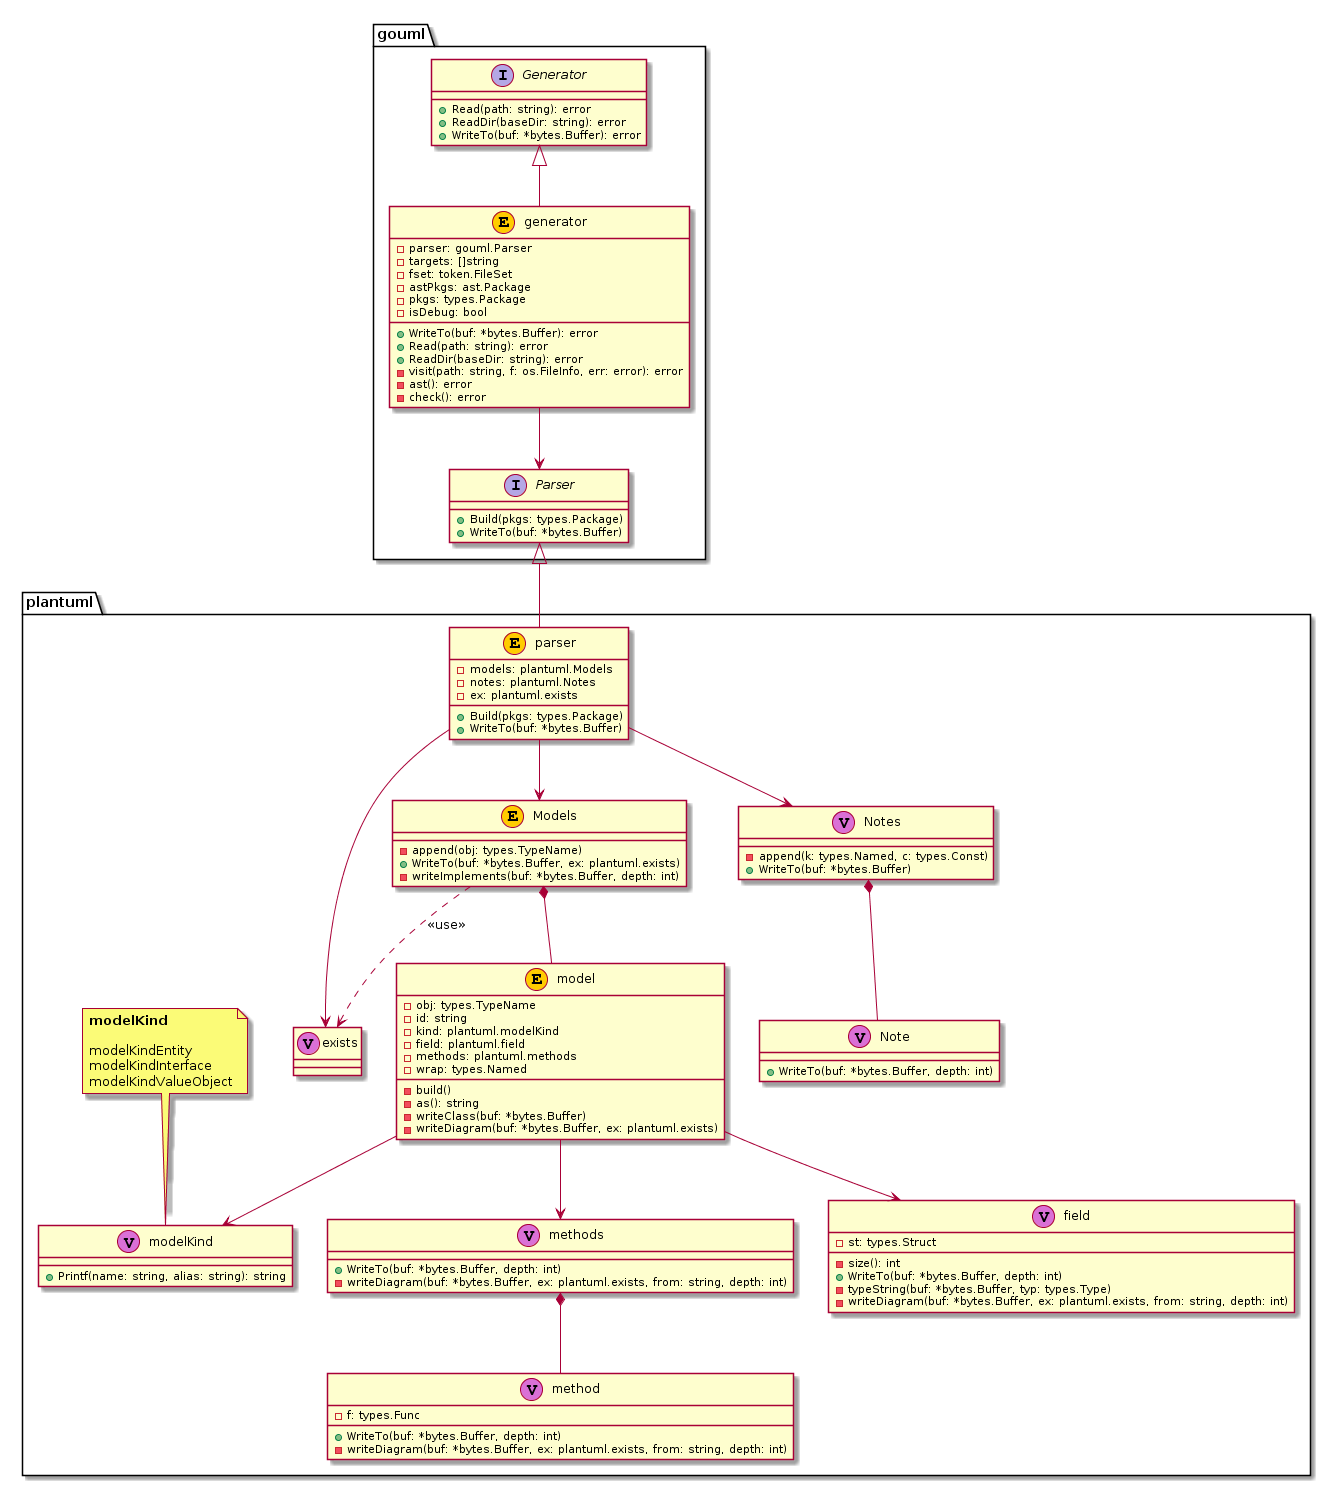
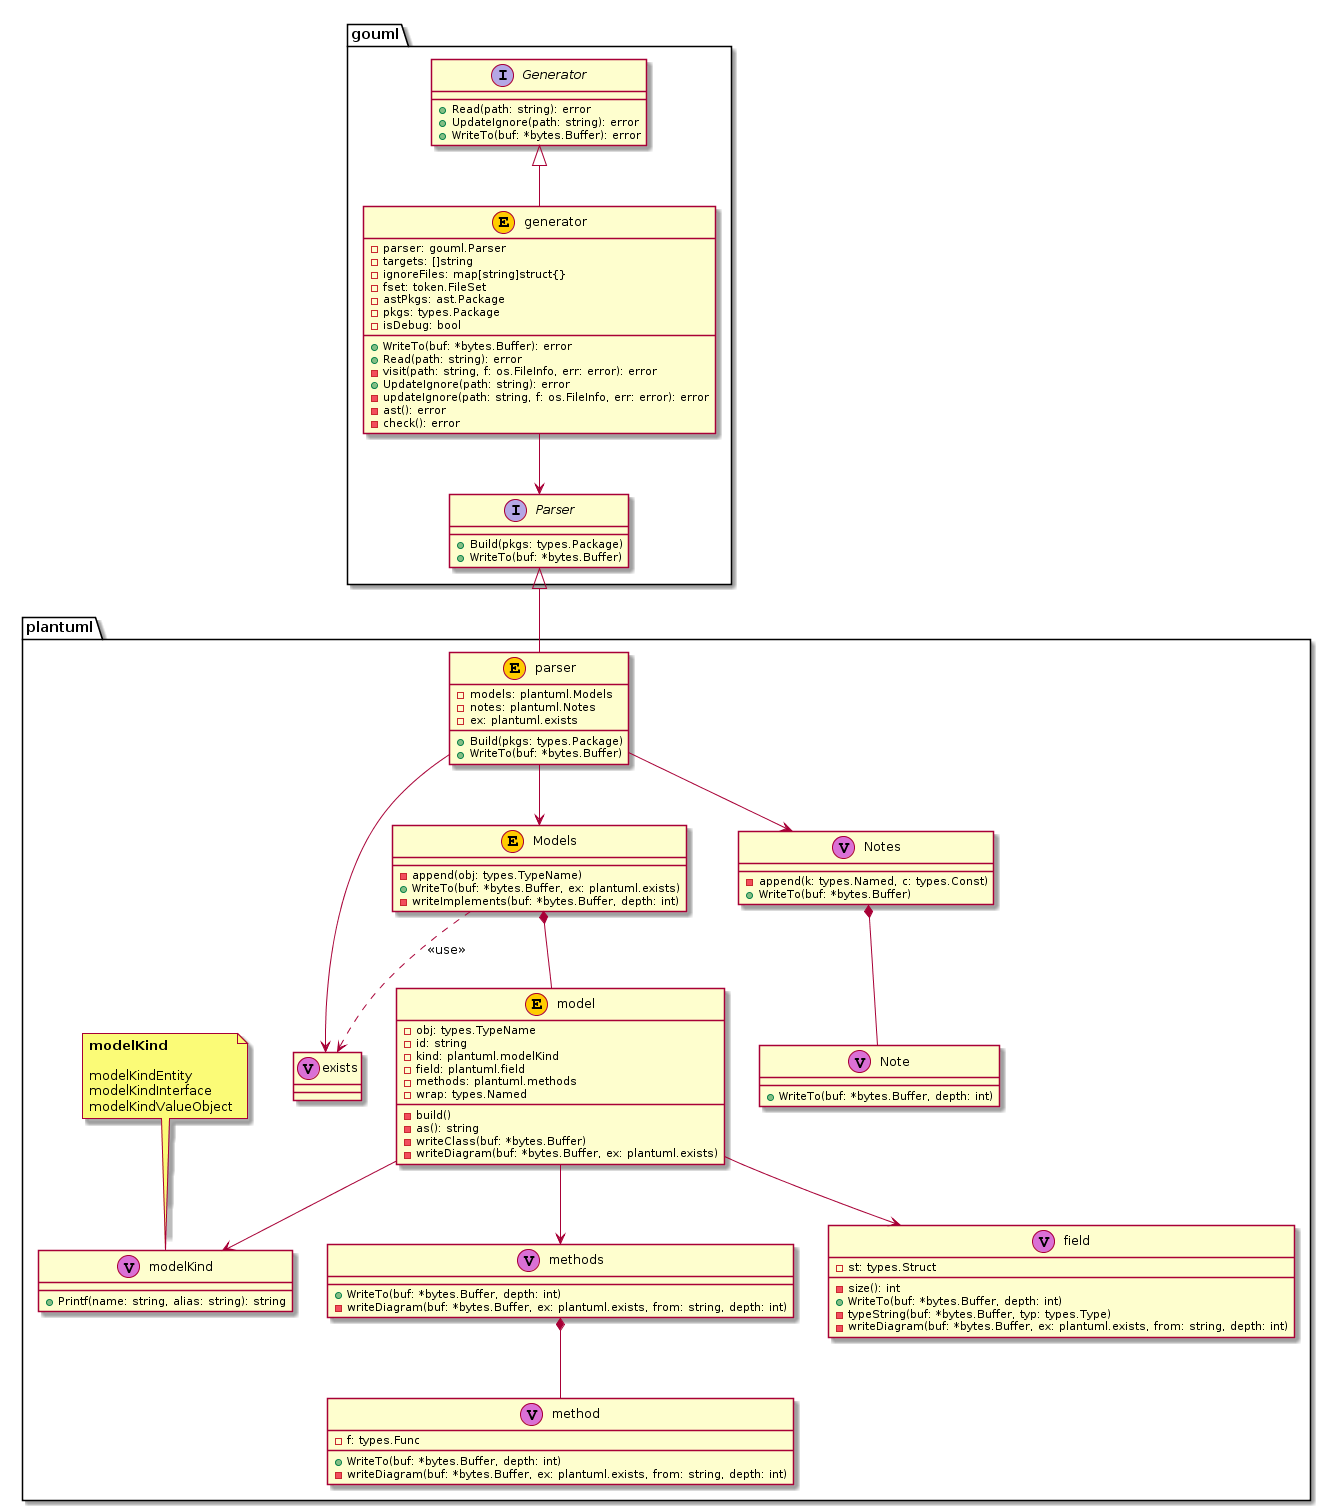
deplicated `--dir` flag. use `-f` flag instead of it.
implements #42 ignore a target directory or file

diff --git a/gen.go b/gen.go
@@ -17,29 +17,31 @@ import (
 
 // Generator ...
 type Generator interface {
+	UpdateIgnore(path string) error
 	Read(path string) error
-	ReadDir(baseDir string) error
 	WriteTo(buf *bytes.Buffer) error
 }
 
 type generator struct {
-	parser  Parser
-	targets []string
-	fset    *token.FileSet
-	astPkgs map[string]*ast.Package
-	pkgs    []*types.Package
-	isDebug bool
+	parser      Parser
+	targets     []string
+	ignoreFiles map[string]struct{}
+	fset        *token.FileSet
+	astPkgs     map[string]*ast.Package
+	pkgs        []*types.Package
+	isDebug     bool
 }
 
 // NewGenerator ...
 func NewGenerator(parser Parser, isDebug bool) Generator {
 	return &generator{
-		parser:  parser,
-		targets: []string{},
-		fset:    token.NewFileSet(),
-		astPkgs: map[string]*ast.Package{},
-		pkgs:    []*types.Package{},
-		isDebug: isDebug,
+		parser:      parser,
+		targets:     []string{},
+		ignoreFiles: map[string]struct{}{},
+		fset:        token.NewFileSet(),
+		astPkgs:     map[string]*ast.Package{},
+		pkgs:        []*types.Package{},
+		isDebug:     isDebug,
 	}
 }
 
@@ -56,17 +58,21 @@ func (g generator) WriteTo(buf *bytes.Buffer) error {
 }
 
 func (g *generator) Read(path string) error {
+	fInfo, err := os.Stat(path)
+	if err != nil {
+		return err
+	}
+
+	if fInfo.IsDir() {
+		if err := filepath.Walk(path, g.visit); err != nil {
+			return err
+		}
+		return nil
+	}
+
 	if err := g.visit(path, nil, nil); err != nil {
 		return err
 	}
-	return nil
-}
-
-func (g *generator) ReadDir(baseDir string) error {
-	if err := filepath.Walk(baseDir, g.visit); err != nil {
-		return err
-	}
-
 	return nil
 }
 
@@ -81,7 +87,38 @@ func (g *generator) visit(path string, f os.FileInfo, err error) error {
 	if err != nil {
 		return err
 	}
+	if _, ok := g.ignoreFiles[path]; ok {
+		return nil
+	}
 	g.targets = append(g.targets, path)
+	return nil
+}
+
+func (g *generator) UpdateIgnore(path string) error {
+	fInfo, err := os.Stat(path)
+	if err != nil {
+		return err
+	}
+
+	if fInfo.IsDir() {
+		if err := filepath.Walk(path, g.updateIgnore); err != nil {
+			return err
+		}
+		return nil
+	}
+
+	if err := g.updateIgnore(path, nil, nil); err != nil {
+		return err
+	}
+	return nil
+}
+
+func (g *generator) updateIgnore(path string, f os.FileInfo, err error) error {
+	path, err = filepath.Abs(path)
+	if err != nil {
+		return err
+	}
+	g.ignoreFiles[path] = struct{}{}
 	return nil
 }
 

diff --git a/cmd/gouml/main.go b/cmd/gouml/main.go
@@ -13,7 +13,7 @@ import (
 
 func main() {
 	app := cli.NewApp()
-	app.Version = "0.0.1"
+	app.Version = "0.2"
 	app.Usage = "Automatically generate PlantUML from Go Code."
 	app.Commands = []cli.Command{
 		{
@@ -22,17 +22,18 @@ func main() {
 			Usage:   "Create *.uml",
 			Action: func(c *cli.Context) error {
 				gen := gouml.NewGenerator(gouml.PlantUMLParser(), c.Bool("verbose"))
-				if dirs := c.StringSlice("dir"); len(dirs) > 0 {
-					for _, dir := range dirs {
-						if err := gen.ReadDir(dir); err != nil {
+
+				if ignoreFiles := c.StringSlice("ignore"); len(ignoreFiles) > 0 {
+					for _, file := range ignoreFiles {
+						if err := gen.UpdateIgnore(file); err != nil {
 							return err
 						}
 					}
 				}
 
 				if files := c.StringSlice("file"); len(files) > 0 {
-					for _, path := range files {
-						if err := gen.Read(path); err != nil {
+					for _, file := range files {
+						if err := gen.Read(file); err != nil {
 							return err
 						}
 					}
@@ -59,11 +60,13 @@ func main() {
 			},
 			Flags: []cli.Flag{
 				cli.StringSliceFlag{
-					Name:  "dir, d",
-					Usage: "Directory you want to parse",
+					Name:  "file, f",
+					Value: &cli.StringSlice{"./"},
+					Usage: "File or Directory you want to parse",
 				},
 				cli.StringSliceFlag{
-					Name: "file, f",
+					Name:  "ignore, I",
+					Usage: "File or Directory you want to ignore parsing",
 				},
 				cli.StringFlag{
 					Name:  "out, o",

diff --git a/README.md b/README.md
@@ -8,26 +8,27 @@ example (self-reference):
 Note that the interface of this library is still ALPHA level quality.  
 Breaking changes will be introduced frequently.  
 
-## Getting Started
+## Usage
 
-```sh
+```console
 $ go get -u github.com/kazukousen/gouml/cmd/gouml
+$ gouml --version
 ```
 
 Run `gouml init` (or `gouml i`) . This will parse `.go` files and generate the plantUML file.  
 
-### Directory-base
-If you requires point to base directory, you can use `-d` flag.  
-
 ```console
-$ gouml i -d path/to/package/
+$ gouml i -f /path/to/package/subpackage1/ -f /path/to/package/subpackage2/foo.go
 ```
 
-### File-base
-If you requires parse one `.go` file. you can use `-f` flag.
+Fire or Directory you want to parse, you can use `-f` flag.  
+
+### Ignore a target directory or file
+
+You can use `--ignore` Flag.  
 
 ```console
-$ gouml i -f path/to/package/foo.go -f path/to/package/bar.go
+$ gouml i -f /path/to/package/ --ignore /path/to/package/ignorepackage/
 ```
 
 ## License
